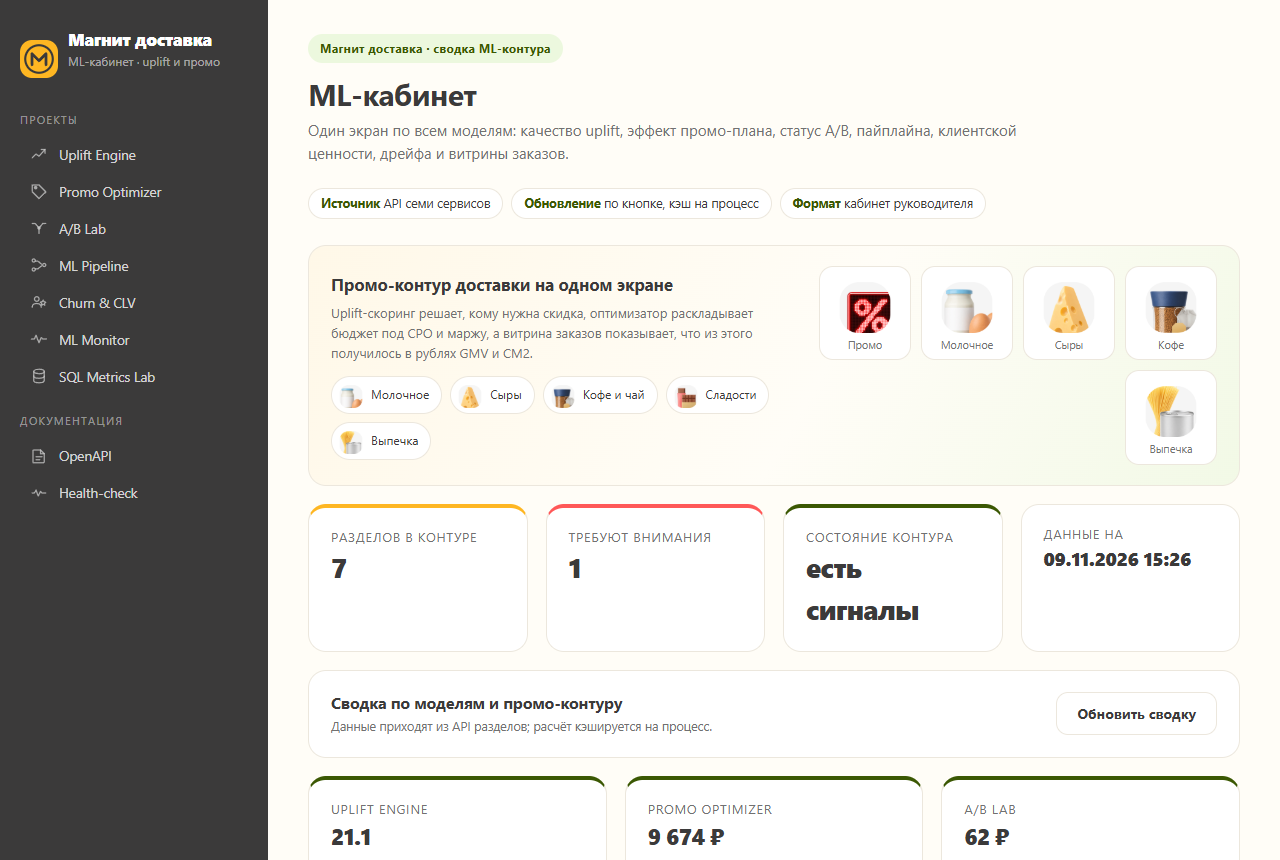
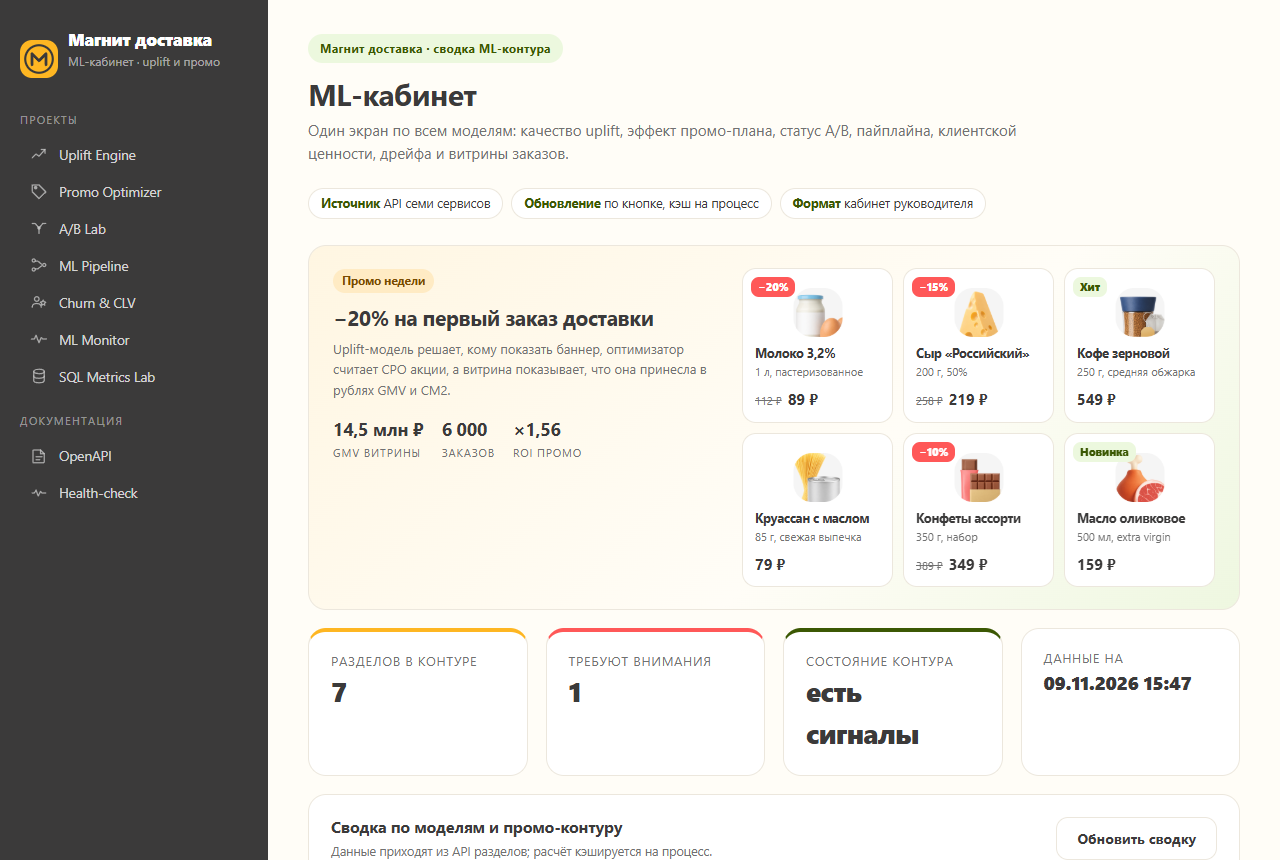
feat(cabinet): product showcase with prices and promo tags

diff --git a/shared/templates/cabinet.html b/shared/templates/cabinet.html
@@ -2,27 +2,62 @@
 {% block head %}<script src="{{ root }}/assets/app.js" defer></script>{% endblock %}
 
 {% block content %}
-<div class="hero">
-  <div>
-    <h2>Промо-контур доставки на одном экране</h2>
-    <p>Uplift-скоринг решает, кому нужна скидка, оптимизатор раскладывает бюджет под CPO и маржу,
-      а витрина заказов показывает, что из этого получилось в рублях GMV и CM2.</p>
-    <div class="cat-strip">
-      <figure><img src="{{ root }}/static/img/cat-milk.png" alt="Молочное"><figcaption>Молочное</figcaption></figure>
-      <figure><img src="{{ root }}/static/img/cat-cheese.png" alt="Сыры"><figcaption>Сыры</figcaption></figure>
-      <figure><img src="{{ root }}/static/img/cat-coffee.png" alt="Кофе и чай"><figcaption>Кофе и чай</figcaption></figure>
-      <figure><img src="{{ root }}/static/img/cat-sweets.png" alt="Сладости"><figcaption>Сладости</figcaption></figure>
-      <figure><img src="{{ root }}/static/img/cat-bakery.png" alt="Выпечка"><figcaption>Выпечка</figcaption></figure>
+<section class="showcase">
+  <div class="showcase-head">
+    <span class="badge warn">Промо недели</span>
+    <h2>−20% на первый заказ доставки</h2>
+    <p>Uplift-модель решает, кому показать баннер, оптимизатор считает CPO акции,
+      а витрина показывает, что она принесла в рублях GMV и CM2.</p>
+    <div class="showcase-metrics">
+      <div><strong>14,5 млн ₽</strong><span>GMV витрины</span></div>
+      <div><strong>6 000</strong><span>заказов</span></div>
+      <div><strong>×1,56</strong><span>ROI промо</span></div>
     </div>
   </div>
-  <div class="hero-cats">
-    <figure><img src="{{ root }}/static/img/promo.png" alt="Промо"><figcaption>Промо</figcaption></figure>
-    <figure><img src="{{ root }}/static/img/cat-milk.png" alt="Молочное"><figcaption>Молочное</figcaption></figure>
-    <figure><img src="{{ root }}/static/img/cat-cheese.png" alt="Сыры"><figcaption>Сыры</figcaption></figure>
-    <figure><img src="{{ root }}/static/img/cat-coffee.png" alt="Кофе"><figcaption>Кофе</figcaption></figure>
-    <figure><img src="{{ root }}/static/img/cat-bakery.png" alt="Выпечка"><figcaption>Выпечка</figcaption></figure>
+  <div class="products">
+    <article class="product">
+      <span class="product-tag">−20%</span>
+      <img src="{{ root }}/static/img/cat-milk.png" alt="Молоко">
+      <h3>Молоко 3,2%</h3>
+      <p class="weight">1 л, пастеризованное</p>
+      <div class="product-price"><s>112 ₽</s><strong>89 ₽</strong></div>
+    </article>
+    <article class="product">
+      <span class="product-tag">−15%</span>
+      <img src="{{ root }}/static/img/cat-cheese.png" alt="Сыр">
+      <h3>Сыр «Российский»</h3>
+      <p class="weight">200 г, 50%</p>
+      <div class="product-price"><s>258 ₽</s><strong>219 ₽</strong></div>
+    </article>
+    <article class="product">
+      <span class="product-tag soft">Хит</span>
+      <img src="{{ root }}/static/img/cat-coffee.png" alt="Кофе">
+      <h3>Кофе зерновой</h3>
+      <p class="weight">250 г, средняя обжарка</p>
+      <div class="product-price"><strong>549 ₽</strong></div>
+    </article>
+    <article class="product">
+      <img src="{{ root }}/static/img/cat-bakery.png" alt="Выпечка">
+      <h3>Круассан с маслом</h3>
+      <p class="weight">85 г, свежая выпечка</p>
+      <div class="product-price"><strong>79 ₽</strong></div>
+    </article>
+    <article class="product">
+      <span class="product-tag">−10%</span>
+      <img src="{{ root }}/static/img/cat-sweets.png" alt="Сладости">
+      <h3>Конфеты ассорти</h3>
+      <p class="weight">350 г, набор</p>
+      <div class="product-price"><s>389 ₽</s><strong>349 ₽</strong></div>
+    </article>
+    <article class="product">
+      <span class="product-tag soft">Новинка</span>
+      <img src="{{ root }}/static/img/cat-oil.png" alt="Масло">
+      <h3>Масло оливковое</h3>
+      <p class="weight">500 мл, extra virgin</p>
+      <div class="product-price"><strong>159 ₽</strong></div>
+    </article>
   </div>
-</div>
+</section>
 
 <div class="grid four" style="margin-bottom:18px">
   <div class="card kpi accent">

diff --git a/shared/assets/tokens.css b/shared/assets/tokens.css
@@ -227,3 +227,41 @@ footer { margin-top: 34px; padding-top: 18px; border-top: 1px solid var(--m-line
   .hero-cats { justify-content: flex-start; }
   .appbar .actions .label { display: none; }
 }
+
+/* Продуктовая витрина кабинета: главный блок как полка магазина. */
+.showcase {
+  display: grid; grid-template-columns: 0.9fr 1.1fr; gap: 22px;
+  background: linear-gradient(135deg, #fff6e2 0%, #fffdf7 60%, #eef7e0 100%);
+  border: 1px solid var(--m-line); border-radius: var(--m-radius);
+  padding: 22px 24px; margin-bottom: 18px;
+}
+.showcase-head h2 { margin: 8px 0 6px; font-size: 21px; letter-spacing: -0.02em; }
+.showcase-head p { margin: 0; color: var(--m-ink-soft); font-size: 13px; max-width: 420px; }
+.showcase-metrics { display: flex; gap: 18px; margin-top: 16px; flex-wrap: wrap; }
+.showcase-metrics div { display: flex; flex-direction: column; }
+.showcase-metrics strong { font-size: 18px; letter-spacing: -0.01em; }
+.showcase-metrics span { font-size: 11px; text-transform: uppercase; letter-spacing: 0.08em; color: var(--m-ink-soft); }
+
+.products { display: grid; grid-template-columns: repeat(3, minmax(0, 1fr)); gap: 10px; }
+.product {
+  position: relative; display: flex; flex-direction: column;
+  background: #fff; border: 1px solid var(--m-line); border-radius: 14px;
+  padding: 12px 12px 10px; text-align: left;
+}
+.product img { width: 56px; height: 56px; object-fit: contain; align-self: center; margin-bottom: 8px; }
+.product h3 { margin: 0; font-size: 12.5px; line-height: 1.3; letter-spacing: -0.01em; }
+.product .weight { margin: 2px 0 8px; font-size: 11px; color: var(--m-ink-soft); }
+.product-price { display: flex; align-items: baseline; gap: 6px; margin-top: auto; }
+.product-price s { font-size: 11px; color: var(--m-ink-soft); }
+.product-price strong { font-size: 15px; }
+.product-tag {
+  position: absolute; top: 8px; left: 8px;
+  background: var(--m-coral); color: #fff; border-radius: 8px;
+  padding: 2px 7px; font-size: 10.5px; font-weight: 800; letter-spacing: 0.02em;
+}
+.product-tag.soft { background: var(--m-mint); color: var(--m-green); }
+
+@media (max-width: 1000px) {
+  .showcase { grid-template-columns: 1fr; }
+  .products { grid-template-columns: repeat(2, minmax(0, 1fr)); }
+}

diff --git a/gateway/test_gateway.py b/gateway/test_gateway.py
@@ -78,4 +78,12 @@ def test_cabinet_has_icons_and_brand_mark():
 def test_cabinet_shows_store_categories():
     page = client.get("/").text
     assert "/static/img/cat-milk.png" in page
-    assert "cat-strip" in page
+    assert 'class="showcase"' in page
+
+
+def test_cabinet_shows_product_cards():
+    page = client.get("/").text
+    assert 'class="products"' in page
+    assert page.count('class="product"') == 6
+    assert 'class="product-tag"' in page
+    assert "89 ₽" in page
